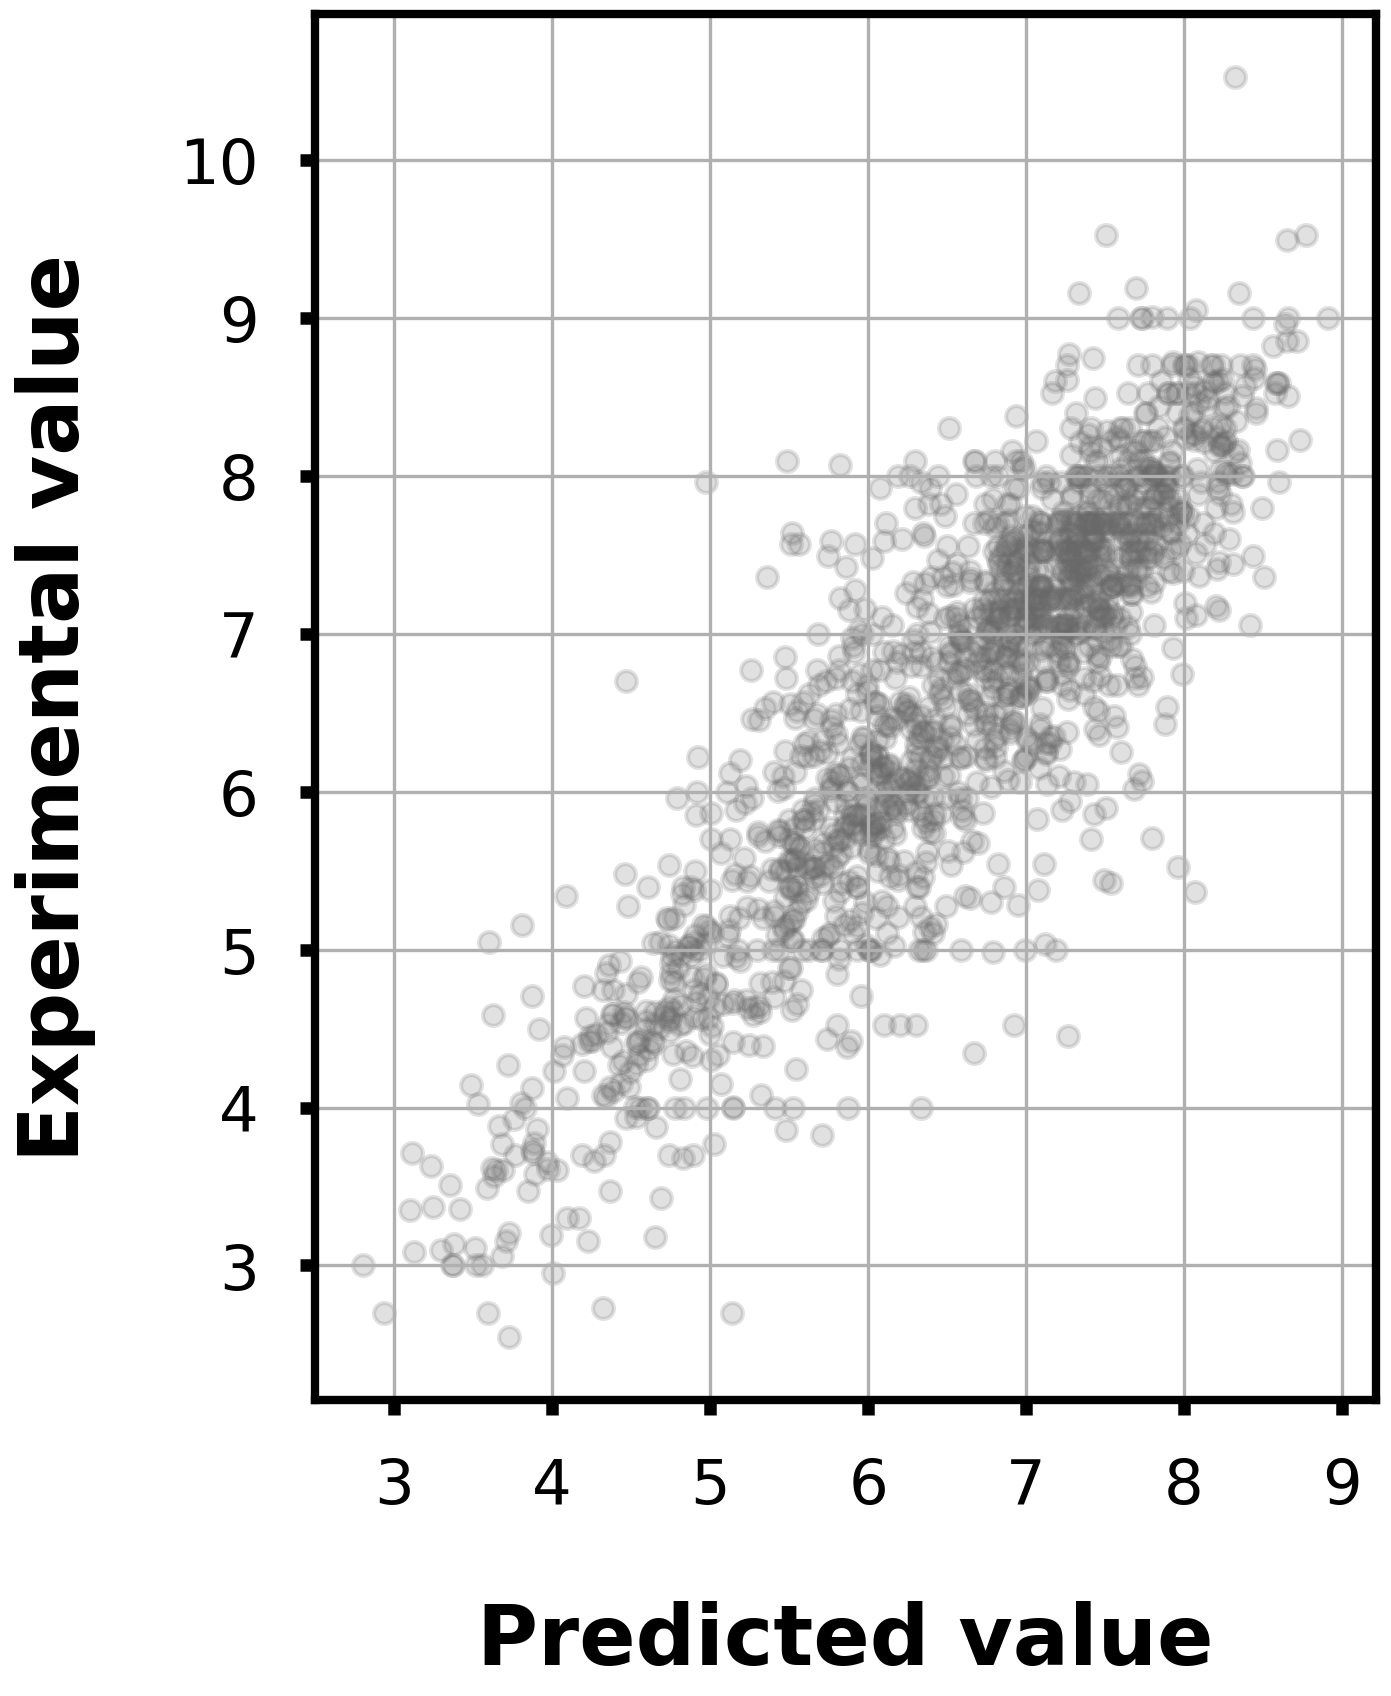
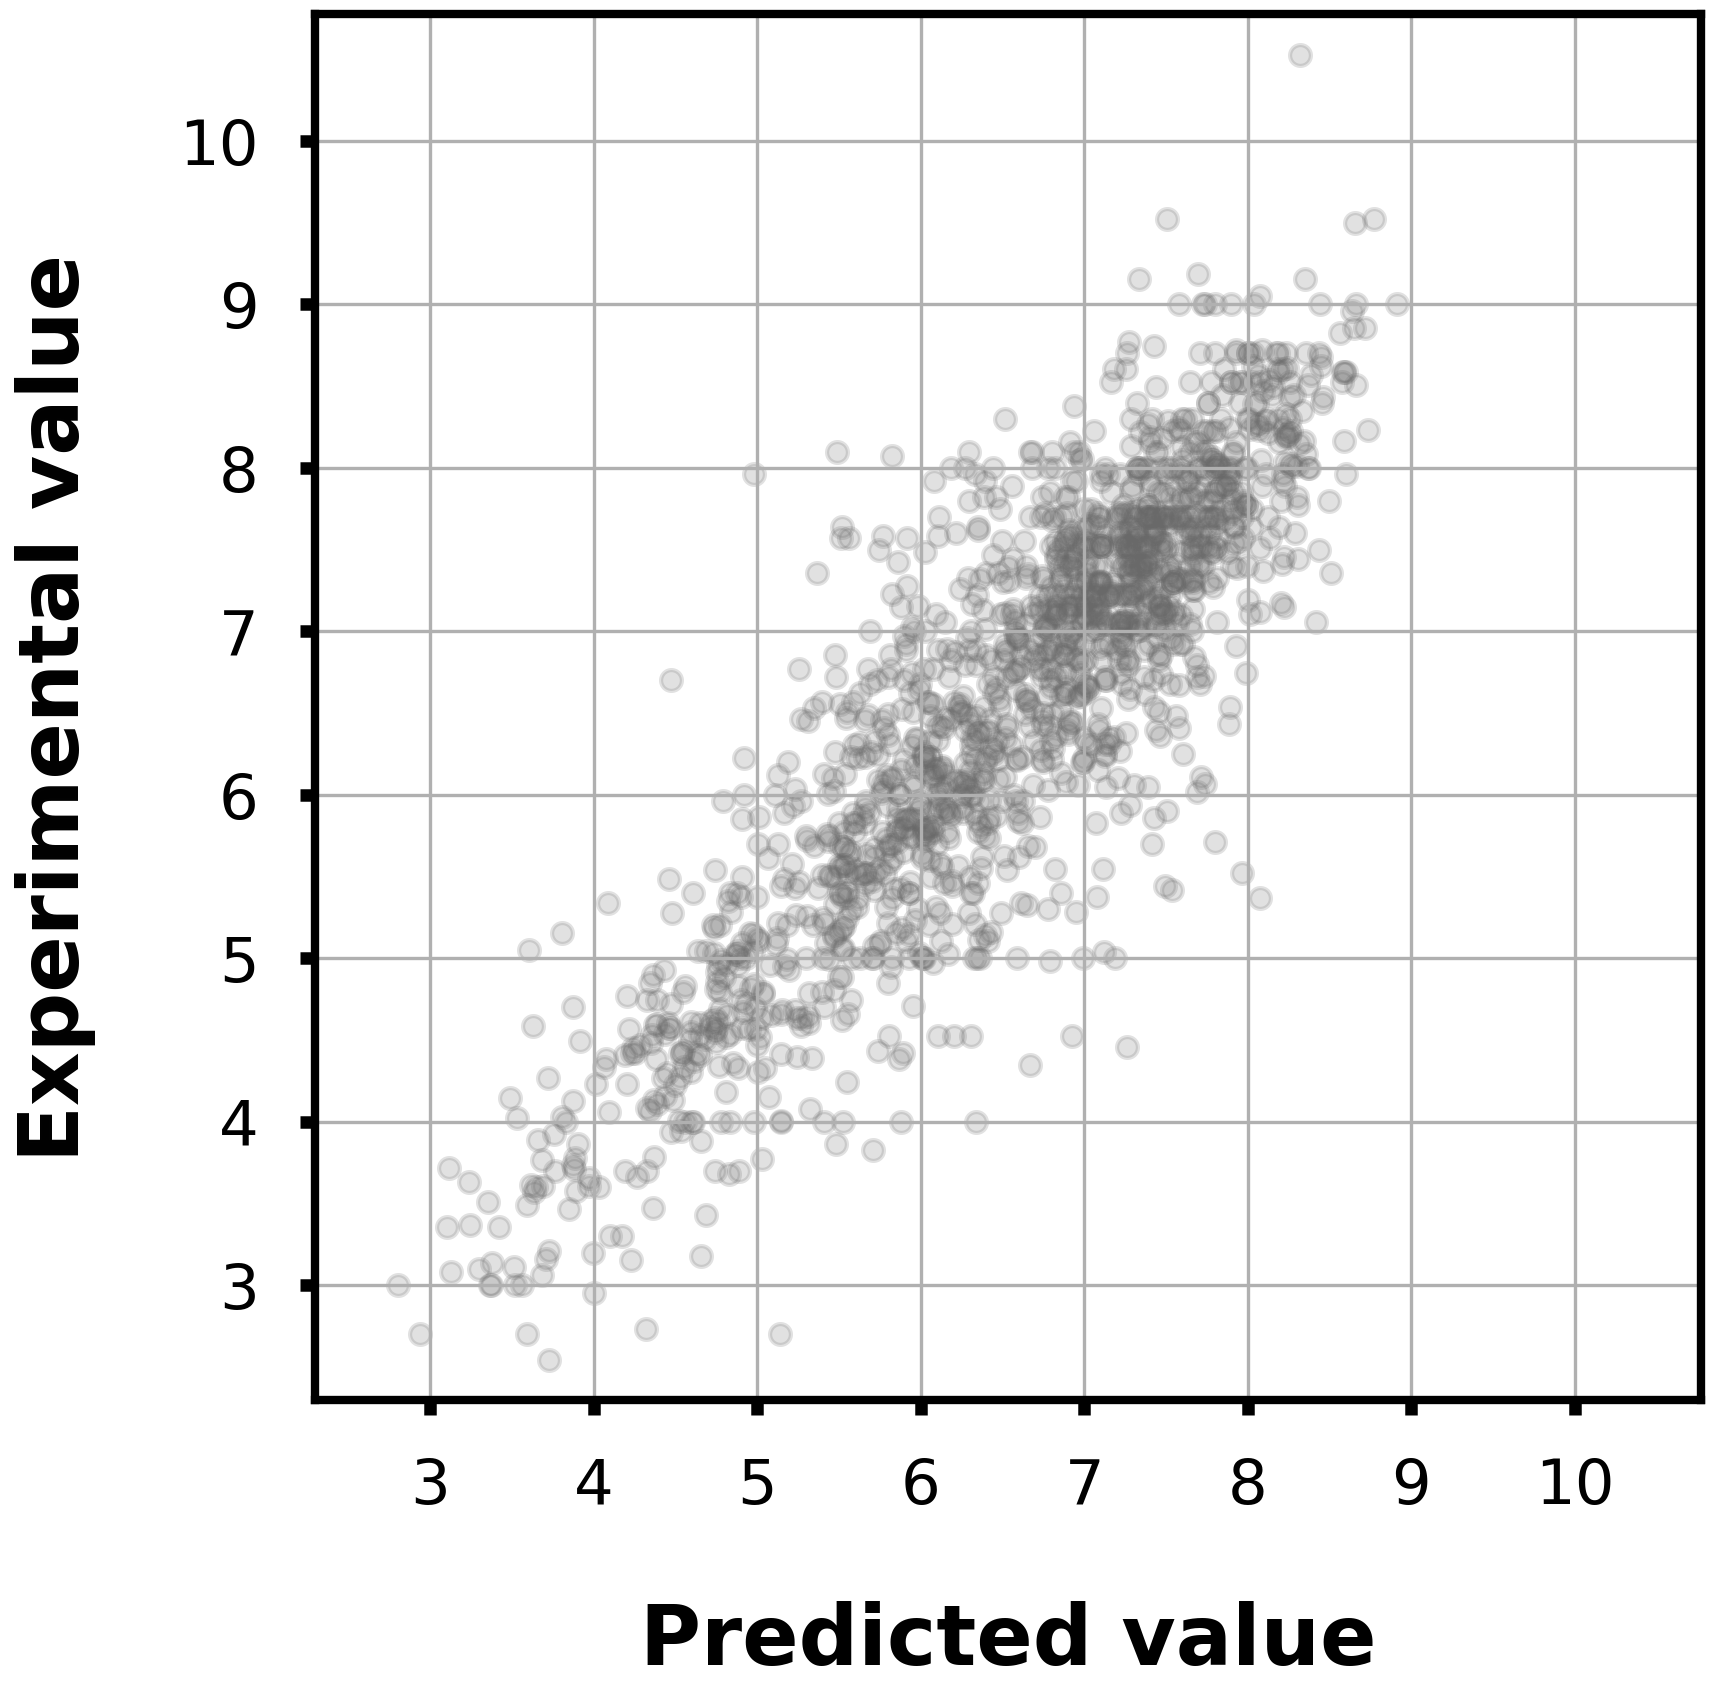
style: match x-axis and y-axis ranges

diff --git a/affinity/ABL/make_scatter_plot.py b/affinity/ABL/make_scatter_plot.py
@@ -11,6 +11,8 @@ from sklearn.model_selection import cross_val_predict, KFold
 
 
 def make_scatter_plot(y_true, y_pred):
+    max_val = max(max(y_true, y_pred, key=max))
+    min_val = min(min(y_true, y_pred, key=min))
     fig, ax = plt.subplots(figsize=(6, 6))
     ax.scatter(y_pred, y_true, marker='o', s=25, c='dimgray', alpha=0.2)
     ax.set_xlabel('Predicted value', fontsize=20, labelpad=20, weight='bold')
@@ -19,6 +21,8 @@ def make_scatter_plot(y_true, y_pred):
     ax.yaxis.set_tick_params(direction='out', labelsize=15, width=3, pad=10)
     ax.xaxis.set_major_locator(mpl.ticker.MultipleLocator(1))
     ax.yaxis.set_minor_locator(mpl.ticker.MultipleLocator(1))
+    ax.set_xlim(min_val-0.25, max_val+0.25)
+    ax.set_ylim(min_val-0.25, max_val+0.25)
     ax.set_aspect('equal')
     ax.grid()
     for axis in ['top','bottom','left','right']:

diff --git a/affinity/BACE1/make_scatter_plot.py b/affinity/BACE1/make_scatter_plot.py
@@ -12,6 +12,8 @@ from sklearn.model_selection import cross_val_predict, KFold
 
 
 def make_scatter_plot(y_true, y_pred):
+    max_val = max(max(y_true, y_pred, key=max))
+    min_val = min(min(y_true, y_pred, key=min))
     fig, ax = plt.subplots(figsize=(6, 6))
     ax.scatter(y_pred, y_true, marker='o', s=25, c='dimgray', alpha=0.2)
     ax.set_xlabel('Predicted value', fontsize=20, labelpad=20, weight='bold')
@@ -20,6 +22,8 @@ def make_scatter_plot(y_true, y_pred):
     ax.yaxis.set_tick_params(direction='out', labelsize=15, width=3, pad=10)
     ax.xaxis.set_major_locator(mpl.ticker.MultipleLocator(1))
     ax.yaxis.set_minor_locator(mpl.ticker.MultipleLocator(1))
+    ax.set_xlim(min_val-0.25, max_val+0.25)
+    ax.set_ylim(min_val-0.25, max_val+0.25)
     ax.set_aspect('equal')
     ax.grid()
     for axis in ['top','bottom','left','right']:

diff --git a/affinity/EGFR/make_scatter_plot.py b/affinity/EGFR/make_scatter_plot.py
@@ -11,6 +11,8 @@ from sklearn.model_selection import cross_val_predict, KFold
 
 
 def make_scatter_plot(y_true, y_pred):
+    max_val = max(max(y_true, y_pred, key=max))
+    min_val = min(min(y_true, y_pred, key=min))
     fig, ax = plt.subplots(figsize=(6, 6))
     ax.scatter(y_pred, y_true, marker='o', s=25, c='dimgray', alpha=0.2)
     ax.set_xlabel('Predicted value', fontsize=20, labelpad=20, weight='bold')
@@ -19,6 +21,8 @@ def make_scatter_plot(y_true, y_pred):
     ax.yaxis.set_tick_params(direction='out', labelsize=15, width=3, pad=10)
     ax.xaxis.set_major_locator(mpl.ticker.MultipleLocator(1))
     ax.yaxis.set_minor_locator(mpl.ticker.MultipleLocator(1))
+    ax.set_xlim(min_val-0.25, max_val+0.25)
+    ax.set_ylim(min_val-0.25, max_val+0.25)
     ax.set_aspect('equal')
     ax.grid()
     for axis in ['top','bottom','left','right']:

diff --git a/affinity/EPHB4/make_scatter_plot.py b/affinity/EPHB4/make_scatter_plot.py
@@ -11,6 +11,8 @@ from sklearn.model_selection import cross_val_predict, KFold
 
 
 def make_scatter_plot(y_true, y_pred):
+    max_val = max(max(y_true, y_pred, key=max))
+    min_val = min(min(y_true, y_pred, key=min))
     fig, ax = plt.subplots(figsize=(6, 6))
     ax.scatter(y_pred, y_true, marker='o', s=25, c='dimgray', alpha=0.2)
     ax.set_xlabel('Predicted value', fontsize=20, labelpad=20, weight='bold')
@@ -19,6 +21,8 @@ def make_scatter_plot(y_true, y_pred):
     ax.yaxis.set_tick_params(direction='out', labelsize=15, width=3, pad=10)
     ax.xaxis.set_major_locator(mpl.ticker.MultipleLocator(1))
     ax.yaxis.set_minor_locator(mpl.ticker.MultipleLocator(1))
+    ax.set_xlim(min_val-0.25, max_val+0.25)
+    ax.set_ylim(min_val-0.25, max_val+0.25)
     ax.set_aspect('equal')
     ax.grid()
     for axis in ['top','bottom','left','right']:

diff --git a/affinity/ERBB2/make_scatter_plot.py b/affinity/ERBB2/make_scatter_plot.py
@@ -11,6 +11,8 @@ from sklearn.model_selection import cross_val_predict, KFold
 
 
 def make_scatter_plot(y_true, y_pred):
+    max_val = max(max(y_true, y_pred, key=max))
+    min_val = min(min(y_true, y_pred, key=min))
     fig, ax = plt.subplots(figsize=(6, 6))
     ax.scatter(y_pred, y_true, marker='o', s=25, c='dimgray', alpha=0.2)
     ax.set_xlabel('Predicted value', fontsize=20, labelpad=20, weight='bold')
@@ -19,6 +21,8 @@ def make_scatter_plot(y_true, y_pred):
     ax.yaxis.set_tick_params(direction='out', labelsize=15, width=3, pad=10)
     ax.xaxis.set_major_locator(mpl.ticker.MultipleLocator(1))
     ax.yaxis.set_minor_locator(mpl.ticker.MultipleLocator(1))
+    ax.set_xlim(min_val-0.25, max_val+0.25)
+    ax.set_ylim(min_val-0.25, max_val+0.25)
     ax.set_aspect('equal')
     ax.grid()
     for axis in ['top','bottom','left','right']:

diff --git a/affinity/ERBB4/make_scatter_plot.py b/affinity/ERBB4/make_scatter_plot.py
@@ -11,6 +11,8 @@ from sklearn.model_selection import cross_val_predict, KFold
 
 
 def make_scatter_plot(y_true, y_pred):
+    max_val = max(max(y_true, y_pred, key=max))
+    min_val = min(min(y_true, y_pred, key=min))
     fig, ax = plt.subplots(figsize=(6, 6))
     ax.scatter(y_pred, y_true, marker='o', s=25, c='dimgray', alpha=0.2)
     ax.set_xlabel('Predicted value', fontsize=20, labelpad=20, weight='bold')
@@ -19,6 +21,8 @@ def make_scatter_plot(y_true, y_pred):
     ax.yaxis.set_tick_params(direction='out', labelsize=15, width=3, pad=10)
     ax.xaxis.set_major_locator(mpl.ticker.MultipleLocator(1))
     ax.yaxis.set_minor_locator(mpl.ticker.MultipleLocator(1))
+    ax.set_xlim(min_val-0.25, max_val+0.25)
+    ax.set_ylim(min_val-0.25, max_val+0.25)
     ax.set_aspect('equal')
     ax.grid()
     for axis in ['top','bottom','left','right']:

diff --git a/affinity/FGFR1/make_scatter_plot.py b/affinity/FGFR1/make_scatter_plot.py
@@ -11,6 +11,8 @@ from sklearn.model_selection import cross_val_predict, KFold
 
 
 def make_scatter_plot(y_true, y_pred):
+    max_val = max(max(y_true, y_pred, key=max))
+    min_val = min(min(y_true, y_pred, key=min))
     fig, ax = plt.subplots(figsize=(6, 6))
     ax.scatter(y_pred, y_true, marker='o', s=25, c='dimgray', alpha=0.2)
     ax.set_xlabel('Predicted value', fontsize=20, labelpad=20, weight='bold')
@@ -19,6 +21,8 @@ def make_scatter_plot(y_true, y_pred):
     ax.yaxis.set_tick_params(direction='out', labelsize=15, width=3, pad=10)
     ax.xaxis.set_major_locator(mpl.ticker.MultipleLocator(1))
     ax.yaxis.set_minor_locator(mpl.ticker.MultipleLocator(1))
+    ax.set_xlim(min_val-0.25, max_val+0.25)
+    ax.set_ylim(min_val-0.25, max_val+0.25)
     ax.set_aspect('equal')
     ax.grid()
     for axis in ['top','bottom','left','right']:

diff --git a/affinity/HCK/make_scatter_plot.py b/affinity/HCK/make_scatter_plot.py
@@ -11,6 +11,8 @@ from sklearn.model_selection import cross_val_predict, KFold
 
 
 def make_scatter_plot(y_true, y_pred):
+    max_val = max(max(y_true, y_pred, key=max))
+    min_val = min(min(y_true, y_pred, key=min))
     fig, ax = plt.subplots(figsize=(6, 6))
     ax.scatter(y_pred, y_true, marker='o', s=25, c='dimgray', alpha=0.2)
     ax.set_xlabel('Predicted value', fontsize=20, labelpad=20, weight='bold')
@@ -19,6 +21,8 @@ def make_scatter_plot(y_true, y_pred):
     ax.yaxis.set_tick_params(direction='out', labelsize=15, width=3, pad=10)
     ax.xaxis.set_major_locator(mpl.ticker.MultipleLocator(1))
     ax.yaxis.set_minor_locator(mpl.ticker.MultipleLocator(1))
+    ax.set_xlim(min_val-0.25, max_val+0.25)
+    ax.set_ylim(min_val-0.25, max_val+0.25)
     ax.set_aspect('equal')
     ax.grid()
     for axis in ['top','bottom','left','right']:

diff --git a/affinity/LCK/make_scatter_plot.py b/affinity/LCK/make_scatter_plot.py
@@ -11,6 +11,8 @@ from sklearn.model_selection import cross_val_predict, KFold
 
 
 def make_scatter_plot(y_true, y_pred):
+    max_val = max(max(y_true, y_pred, key=max))
+    min_val = min(min(y_true, y_pred, key=min))
     fig, ax = plt.subplots(figsize=(6, 6))
     ax.scatter(y_pred, y_true, marker='o', s=25, c='dimgray', alpha=0.2)
     ax.set_xlabel('Predicted value', fontsize=20, labelpad=20, weight='bold')
@@ -19,6 +21,8 @@ def make_scatter_plot(y_true, y_pred):
     ax.yaxis.set_tick_params(direction='out', labelsize=15, width=3, pad=10)
     ax.xaxis.set_major_locator(mpl.ticker.MultipleLocator(1))
     ax.yaxis.set_minor_locator(mpl.ticker.MultipleLocator(1))
+    ax.set_xlim(min_val-0.25, max_val+0.25)
+    ax.set_ylim(min_val-0.25, max_val+0.25)
     ax.set_aspect('equal')
     ax.grid()
     for axis in ['top','bottom','left','right']:

diff --git a/affinity/PDGFRbeta/make_scatter_plot.py b/affinity/PDGFRbeta/make_scatter_plot.py
@@ -11,6 +11,8 @@ from sklearn.model_selection import cross_val_predict, KFold
 
 
 def make_scatter_plot(y_true, y_pred):
+    max_val = max(max(y_true, y_pred, key=max))
+    min_val = min(min(y_true, y_pred, key=min))
     fig, ax = plt.subplots(figsize=(6, 6))
     ax.scatter(y_pred, y_true, marker='o', s=25, c='dimgray', alpha=0.2)
     ax.set_xlabel('Predicted value', fontsize=20, labelpad=20, weight='bold')
@@ -19,6 +21,8 @@ def make_scatter_plot(y_true, y_pred):
     ax.yaxis.set_tick_params(direction='out', labelsize=15, width=3, pad=10)
     ax.xaxis.set_major_locator(mpl.ticker.MultipleLocator(1))
     ax.yaxis.set_minor_locator(mpl.ticker.MultipleLocator(1))
+    ax.set_xlim(min_val-0.25, max_val+0.25)
+    ax.set_ylim(min_val-0.25, max_val+0.25)
     ax.set_aspect('equal')
     ax.grid()
     for axis in ['top','bottom','left','right']:

diff --git a/affinity/SRC/make_scatter_plot.py b/affinity/SRC/make_scatter_plot.py
@@ -11,6 +11,8 @@ from sklearn.model_selection import cross_val_predict, KFold
 
 
 def make_scatter_plot(y_true, y_pred):
+    max_val = max(max(y_true, y_pred, key=max))
+    min_val = min(min(y_true, y_pred, key=min))
     fig, ax = plt.subplots(figsize=(6, 6))
     ax.scatter(y_pred, y_true, marker='o', s=25, c='dimgray', alpha=0.2)
     ax.set_xlabel('Predicted value', fontsize=20, labelpad=20, weight='bold')
@@ -19,6 +21,8 @@ def make_scatter_plot(y_true, y_pred):
     ax.yaxis.set_tick_params(direction='out', labelsize=15, width=3, pad=10)
     ax.xaxis.set_major_locator(mpl.ticker.MultipleLocator(1))
     ax.yaxis.set_minor_locator(mpl.ticker.MultipleLocator(1))
+    ax.set_xlim(min_val-0.25, max_val+0.25)
+    ax.set_ylim(min_val-0.25, max_val+0.25)
     ax.set_aspect('equal')
     ax.grid()
     for axis in ['top','bottom','left','right']:

diff --git a/affinity/VEGFR2/make_scatter_plot.py b/affinity/VEGFR2/make_scatter_plot.py
@@ -11,6 +11,8 @@ from sklearn.model_selection import cross_val_predict, KFold
 
 
 def make_scatter_plot(y_true, y_pred):
+    max_val = max(max(y_true, y_pred, key=max))
+    min_val = min(min(y_true, y_pred, key=min))
     fig, ax = plt.subplots(figsize=(6, 6))
     ax.scatter(y_pred, y_true, marker='o', s=25, c='dimgray', alpha=0.2)
     ax.set_xlabel('Predicted value', fontsize=20, labelpad=20, weight='bold')
@@ -19,6 +21,8 @@ def make_scatter_plot(y_true, y_pred):
     ax.yaxis.set_tick_params(direction='out', labelsize=15, width=3, pad=10)
     ax.xaxis.set_major_locator(mpl.ticker.MultipleLocator(1))
     ax.yaxis.set_minor_locator(mpl.ticker.MultipleLocator(1))
+    ax.set_xlim(min_val-0.25, max_val+0.25)
+    ax.set_ylim(min_val-0.25, max_val+0.25)
     ax.set_aspect('equal')
     ax.grid()
     for axis in ['top','bottom','left','right']:
